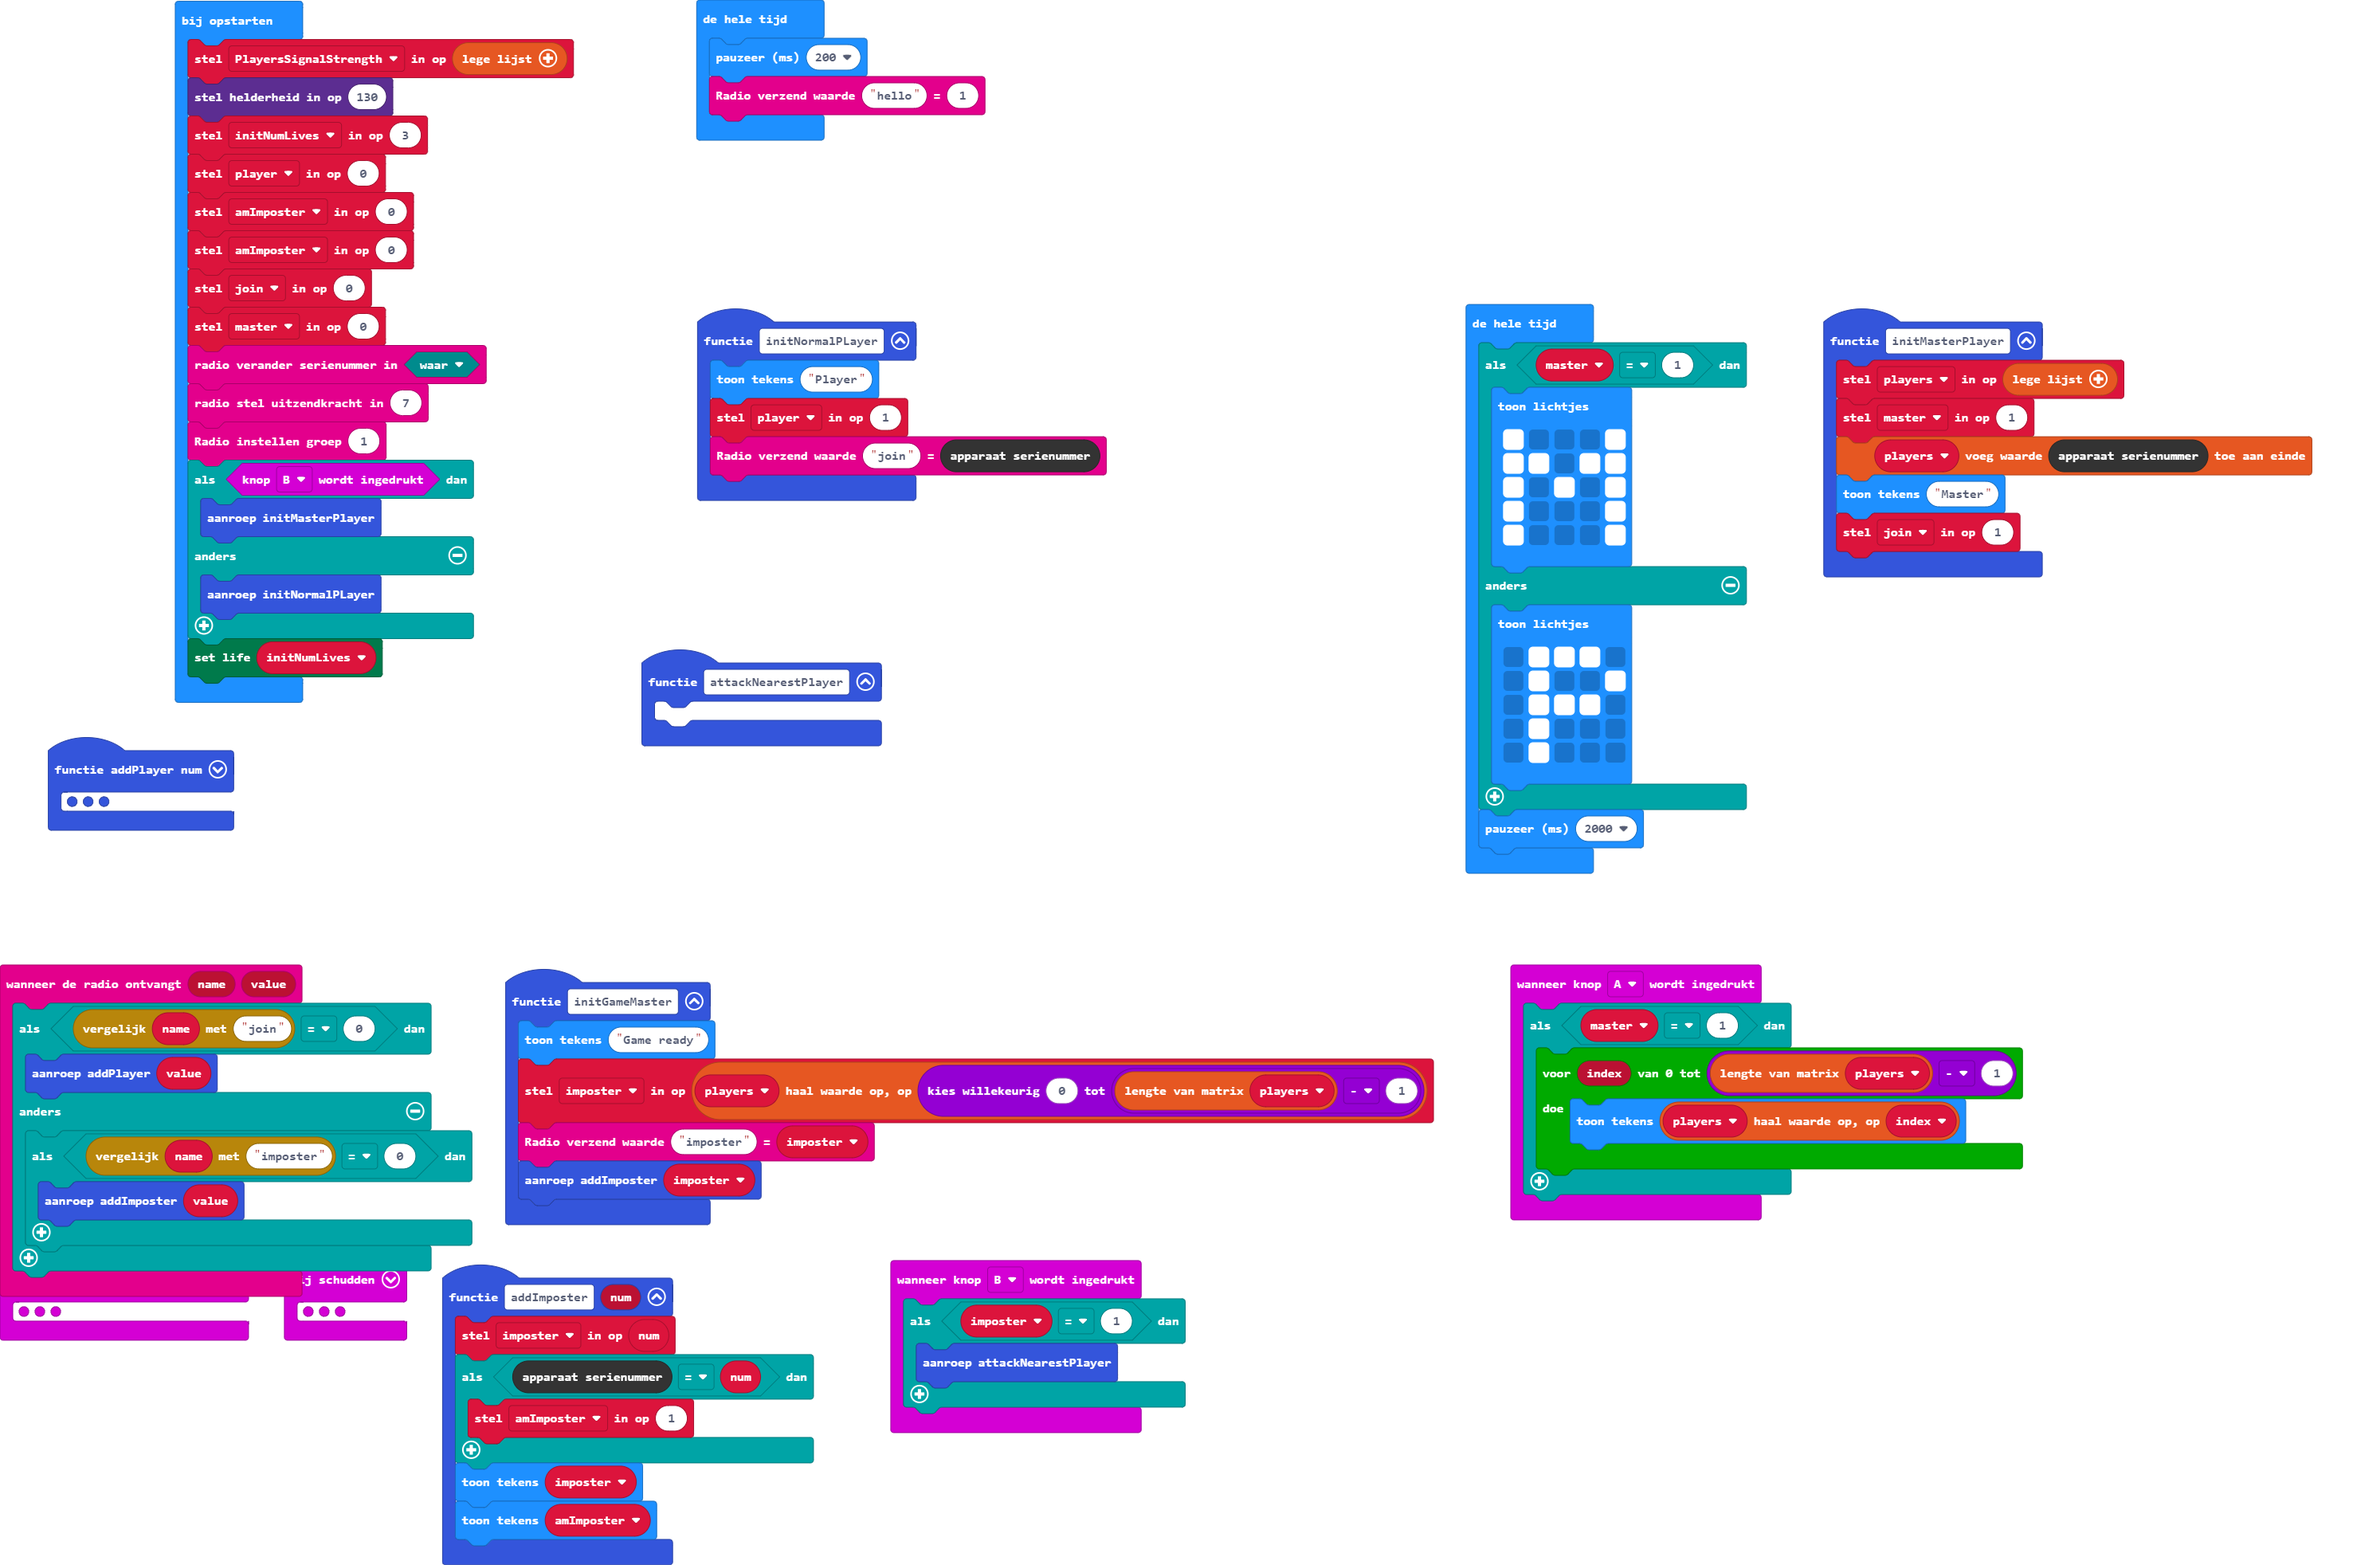
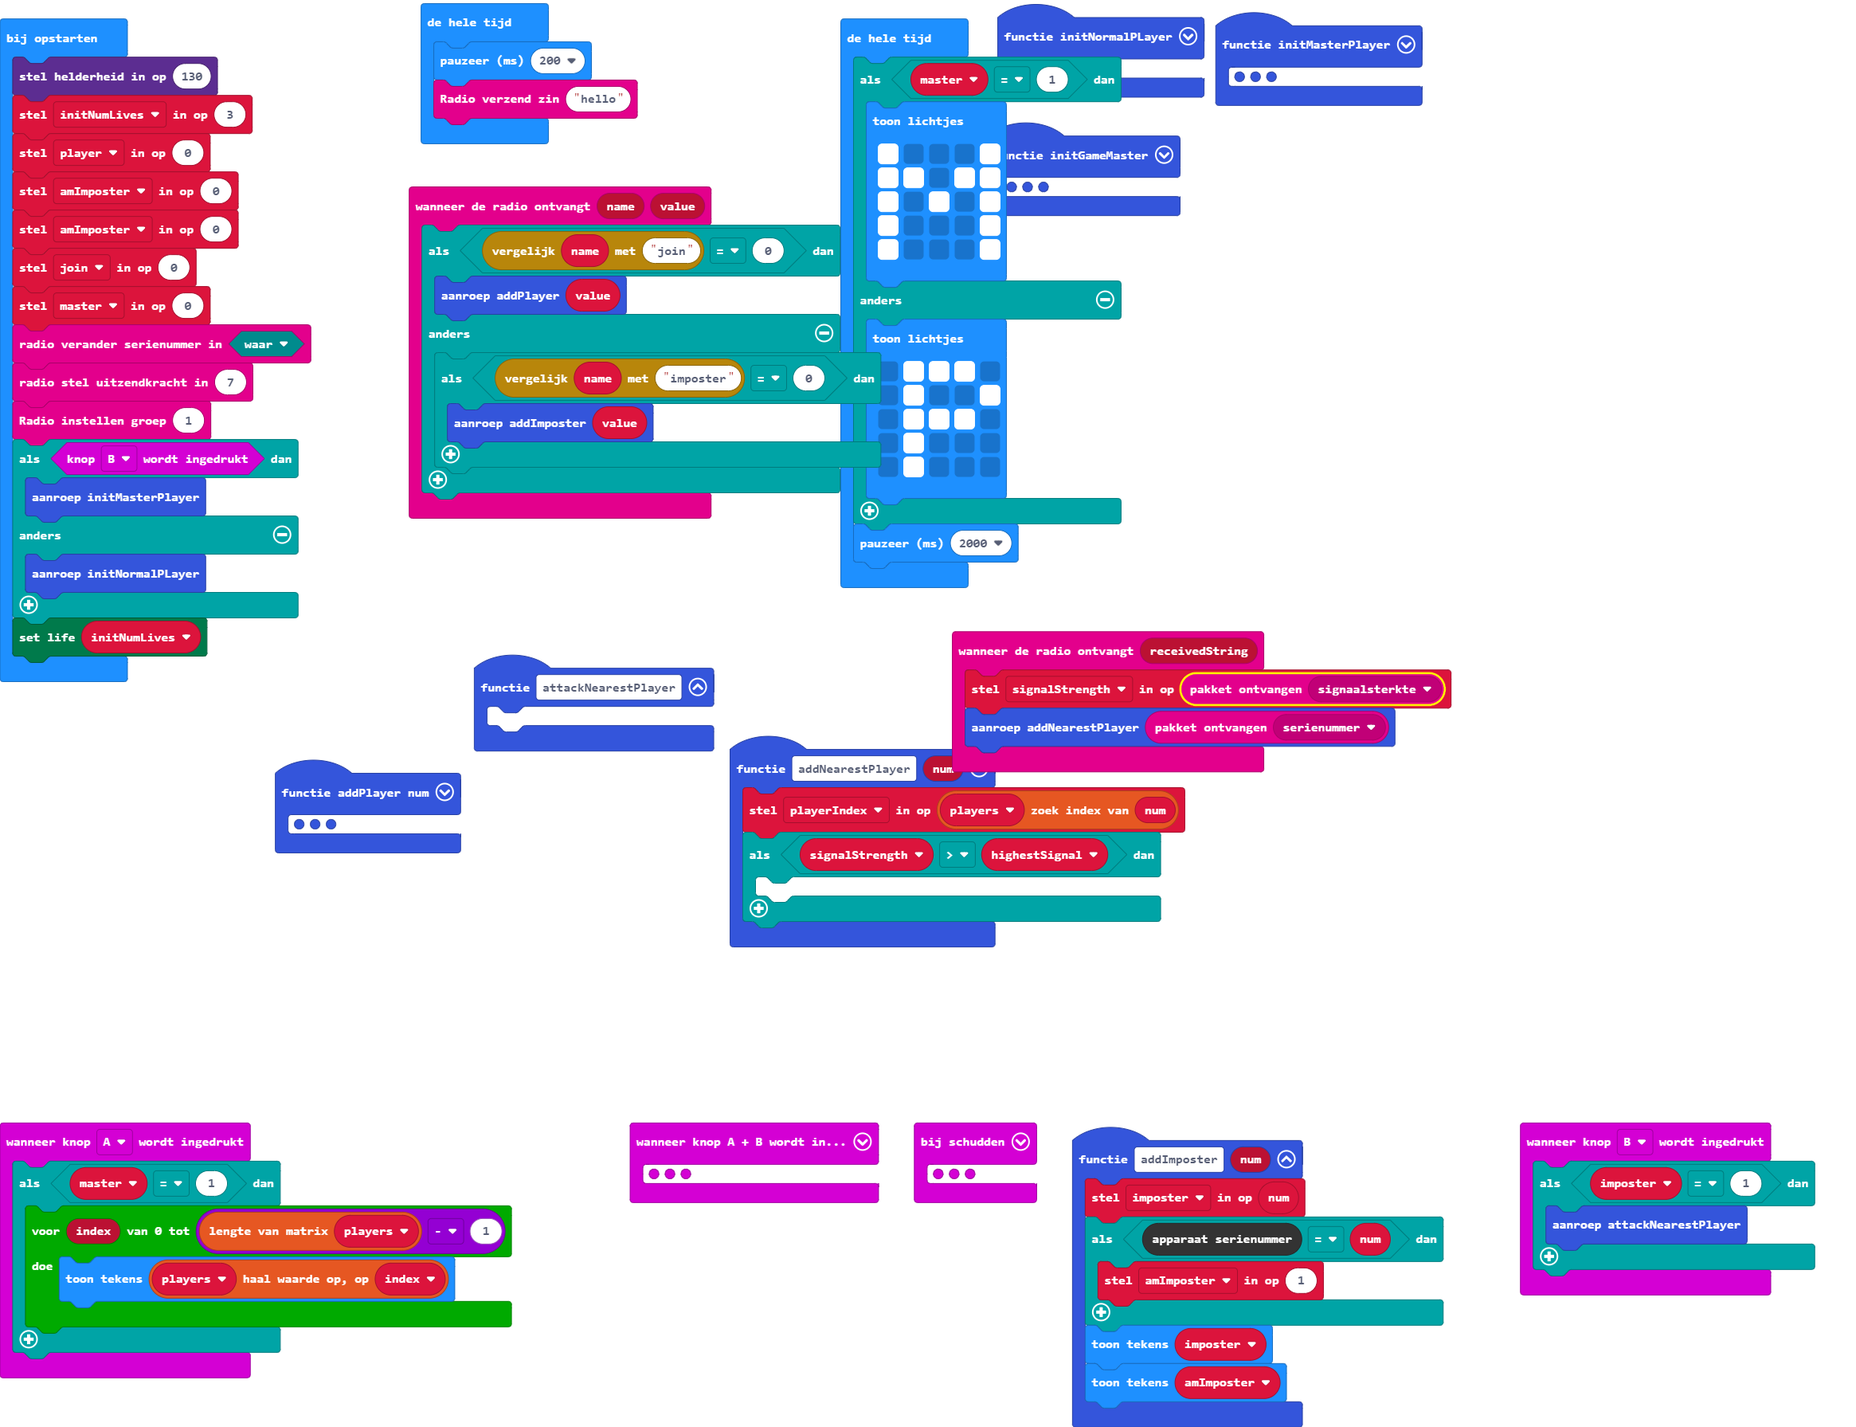
Update pxt.json, main.blocks, main.ts

diff --git a/main.ts b/main.ts
@@ -18,6 +18,13 @@ input.onGesture(Gesture.Shake, function () {
         basic.showString("Crewmate")
     }
 })
+function addNearestPlayer (num: number) {
+    let highestSignal = 0
+    playerIndex = players.indexOf(num)
+    if (signalStrength > highestSignal) {
+    	
+    }
+}
 function addImposter (num: number) {
     imposter = num
     if (control.deviceSerialNumber() == num) {
@@ -49,6 +56,10 @@ function addPlayer (num: number) {
         }
     }
 }
+radio.onReceivedString(function (receivedString) {
+    signalStrength = radio.receivedPacket(RadioPacketProperty.SignalStrength)
+    addNearestPlayer(radio.receivedPacket(RadioPacketProperty.SerialNumber))
+})
 input.onButtonPressed(Button.B, function () {
     if (imposter == 1) {
         attackNearestPlayer()
@@ -68,13 +79,14 @@ radio.onReceivedValue(function (name, value) {
         }
     }
 })
+let signalStrength = 0
+let playerIndex = 0
 let players: number[] = []
 let imposter = 0
 let master = 0
 let join = 0
 let amImposter = 0
 let player = 0
-let PlayersSignalStrength: number[] = []
 led.setBrightness(130)
 let initNumLives = 3
 player = 0
@@ -93,7 +105,7 @@ if (input.buttonIsPressed(Button.B)) {
 game.setLife(initNumLives)
 basic.forever(function () {
     basic.pause(200)
-    radio.sendValue("hello", 1)
+    radio.sendString("hello")
 })
 basic.forever(function () {
     if (master == 1) {
